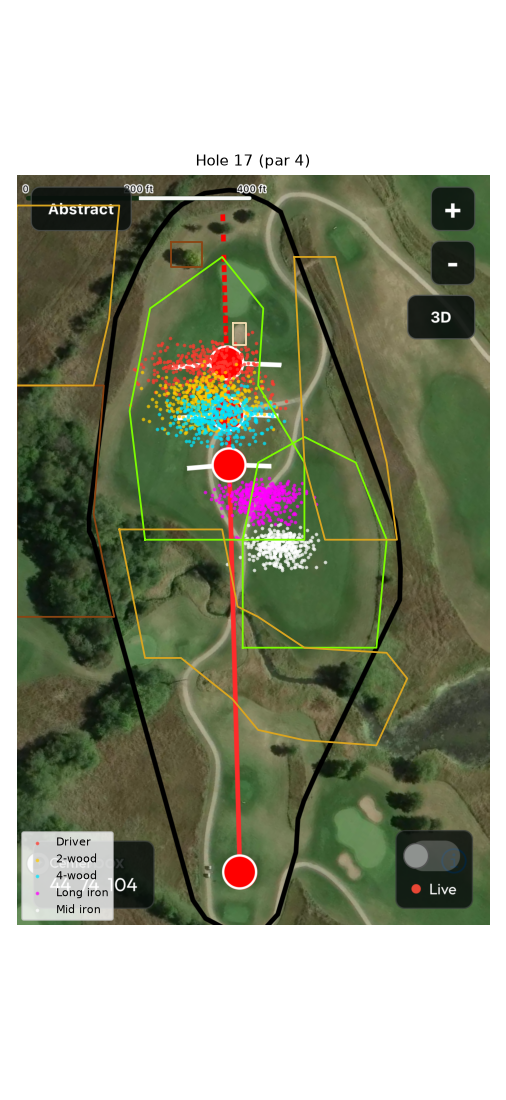
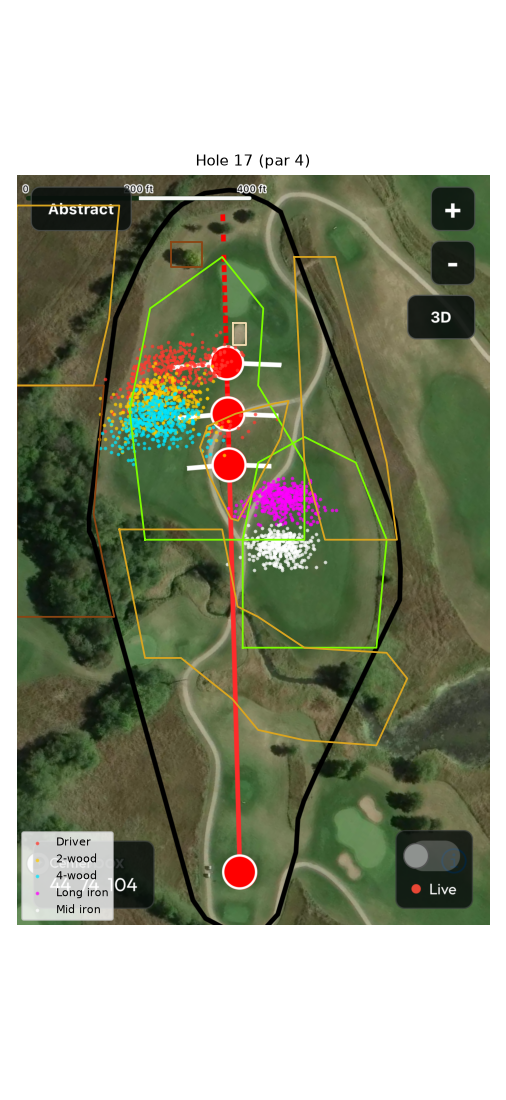
Hole 17: add tall-grass island at 206-276 yds inside the cart-path loop
Traced from a zoomed screenshot; widen the left aim search on 17.

Claude-Session: https://claude.ai/code/session_011rKvZuUcU769YfPfktPsds

Changed region(s): [[0.2075, 0.3091, 0.6522, 0.4945]]

diff --git a/mozingo/tee_strategy.py b/mozingo/tee_strategy.py
@@ -240,7 +240,7 @@ HOLES = {
             ("water", [(720, 900), (920, 900), (920, 1800), (600, 1800), (625, 1300), (650, 1000)]),
         ]),
     17: dict(
-        par=4, image="hole17.png", length=344, irons=True,
+        par=4, image="hole17.png", length=344, irons=True, aim_min=-45,
         tee=(433, 1895), dot270=(411, 1003), green=(425, 760),
         zones=[
             ("fairway", [(250, 1250), (560, 1250), (560, 1100), (470, 950), (480, 800), (400, 700),
@@ -254,6 +254,10 @@ HOLES = {
             ("native", [(200, 1230), (400, 1230), (430, 1380), (470, 1400), (560, 1460), (720, 1470),
                         (760, 1520), (700, 1650), (560, 1640), (470, 1620), (420, 1560), (320, 1480),
                         (250, 1480)]),                                           # creek + tall grass 90-160 yds
+            ("native", [(372, 1029), (426, 1005), (502, 985), (529, 980), (513, 1053), (478, 1121),
+                        (431, 1213), (417, 1209), (374, 1124), (357, 1070)]),    # tall-grass island inside the
+                                                                                 # cart-path loop, 206-276 yds
+                                                                                 # (traced from hole17_zoom.png)
             ("sand", [(422, 828), (447, 828), (447, 872), (422, 872)]),                   # short-right of green
         ]),
     18: dict(
@@ -345,6 +349,9 @@ AIMS_WIDE = np.arange(-20, 50.1, 2.5)   # irons can lay up to a different part o
 
 
 def best_aim(hole_no, club, aims=AIMS, z=None):
+    lo = HOLES[hole_no].get("aim_min")
+    if lo is not None:                       # hole needs a wider search to the left
+        aims = np.arange(lo, aims.max() + 0.1, 2.5)
     best = None
     for aim in aims:
         _, lie, to_green, strokes = simulate(hole_no, club, aim, z=z)

diff --git a/mozingo/output/results_table.md b/mozingo/output/results_table.md
@@ -36,11 +36,11 @@
 | 16 | 4 | Driver | -5.0 | 138 | 79% | 10% | 0% | 11% | 0% | 0% | 4.033 | +0.005 |
 | 16 | 4 | 2-wood **<- play** | -7.5 | 156 | 87% | 9% | 0% | 4% | 0% | 0% | 4.027 | +0.000 |
 | 16 | 4 | 4-wood | -10.0 | 166 | 94% | 5% | 0% | 1% | 0% | 0% | 4.036 | +0.009 |
-| 17 | 4 | Driver **<- play** | -10.0 | 51 | 94% | 5% | 1% | 0% | 0% | 0% | 3.667 | +0.000 |
-| 17 | 4 | 2-wood | -10.0 | 69 | 98% | 2% | 0% | 0% | 0% | 0% | 3.727 | +0.060 |
-| 17 | 4 | 4-wood | -5.0 | 77 | 99% | 1% | 0% | 0% | 0% | 0% | 3.745 | +0.078 |
-| 17 | 4 | Long iron | +17.5 | 126 | 100% | 0% | 0% | 0% | 0% | 0% | 3.873 | +0.206 |
-| 17 | 4 | Mid iron | +27.5 | 154 | 99% | 1% | 0% | 0% | 0% | 0% | 3.966 | +0.299 |
+| 17 | 4 | Driver **<- play** | -27.5 | 60 | 84% | 11% | 0% | 0% | 4% | 0% | 3.766 | +0.000 |
+| 17 | 4 | 2-wood | -37.5 | 81 | 82% | 14% | 0% | 1% | 3% | 0% | 3.831 | +0.065 |
+| 17 | 4 | 4-wood | -40.0 | 91 | 84% | 13% | 0% | 0% | 2% | 0% | 3.834 | +0.069 |
+| 17 | 4 | Long iron | +30.0 | 128 | 93% | 0% | 0% | 0% | 7% | 0% | 3.953 | +0.188 |
+| 17 | 4 | Mid iron | +27.5 | 154 | 99% | 1% | 0% | 0% | 0% | 0% | 3.966 | +0.200 |
 | 18 | 4 | Driver **<- play** | -12.5 | 104 | 82% | 8% | 0% | 10% | 0% | 0% | 3.928 | +0.000 |
 | 18 | 4 | 2-wood | +2.5 | 131 | 84% | 1% | 0% | 15% | 0% | 0% | 4.017 | +0.089 |
 | 18 | 4 | 4-wood | +7.5 | 140 | 90% | 1% | 0% | 9% | 0% | 0% | 3.996 | +0.068 |
